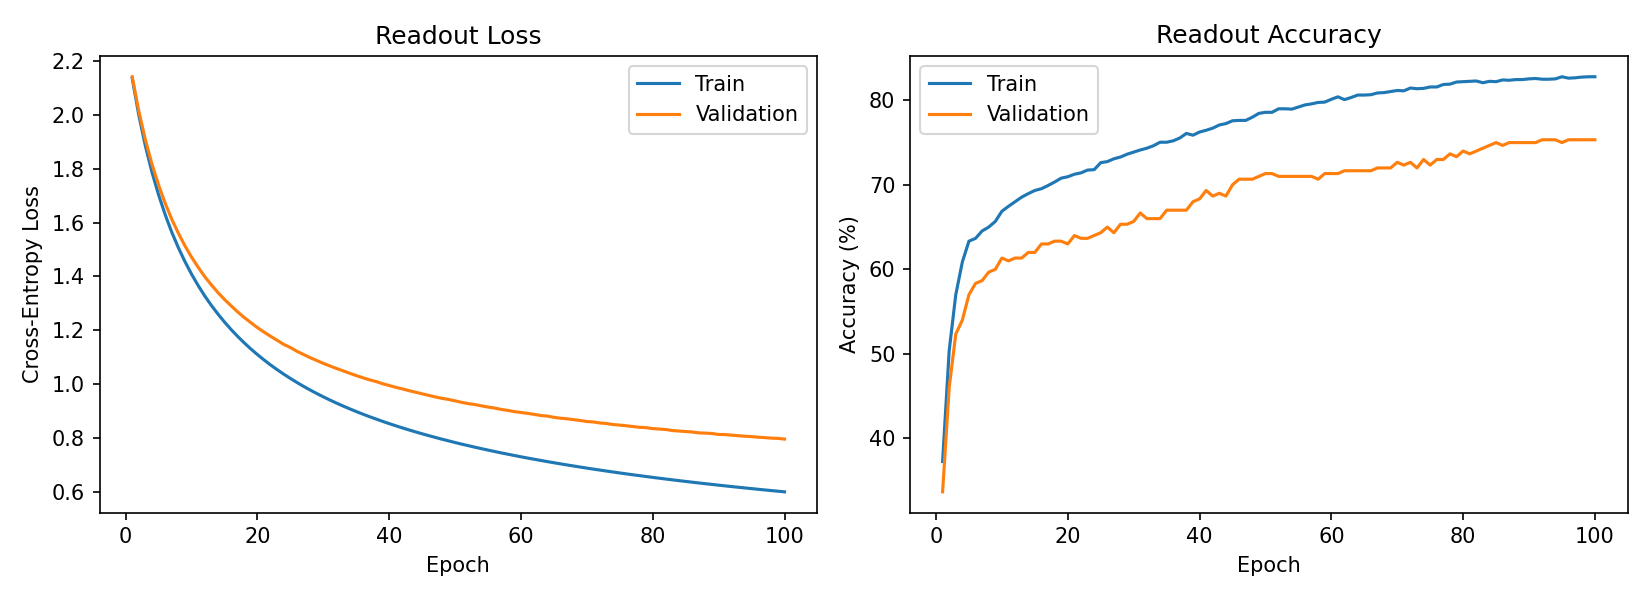
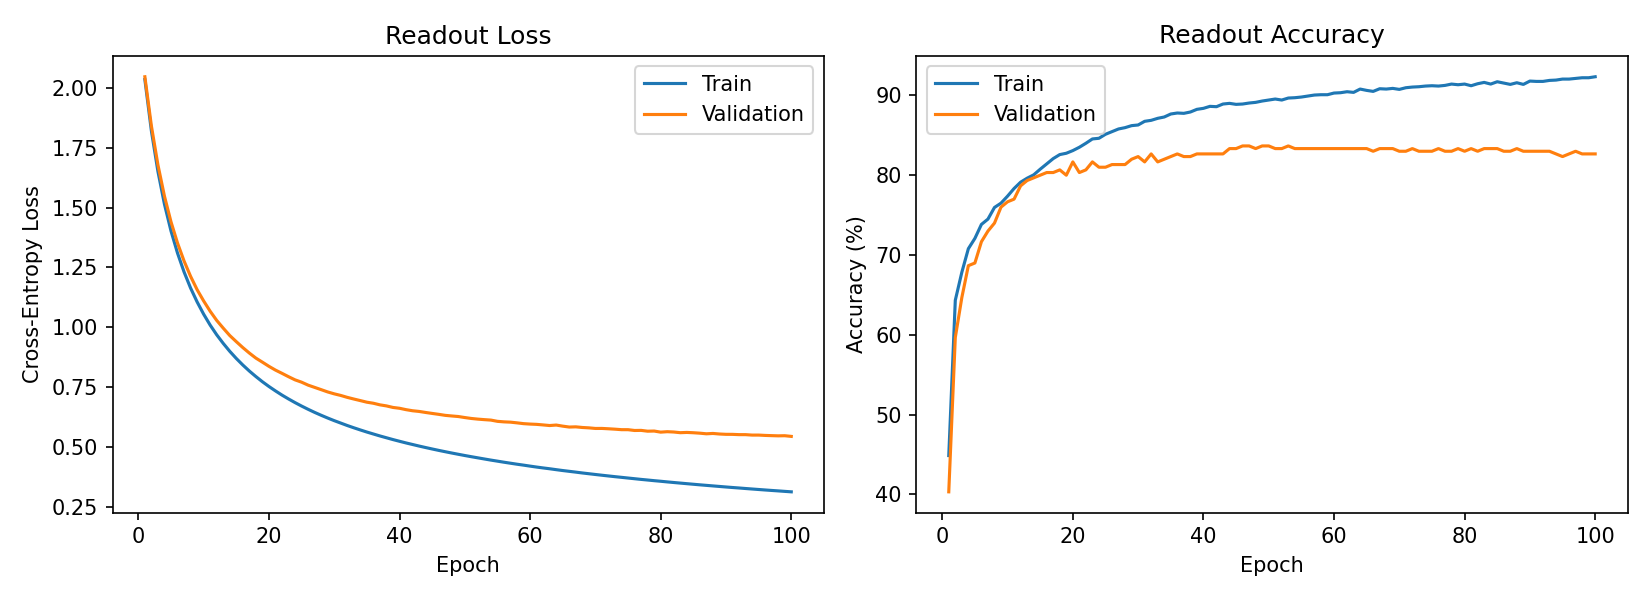
Tune binarization threshold and training epochs (Optimized 0.20, 300)

diff --git a/src/preprocessing.py b/src/preprocessing.py
@@ -29,7 +29,7 @@ HOP_LENGTH = 128 # FFT 시간 구간의 이동 간격(샘플), FFT_SIZE/2로 설
 N_MELS = 32 # Mel 주파수 채널 수, 129개의 주파수 성분을 32개의 Mel 채널로 변환
 N_FRAMES = 32 # 음성마다 사용할 시간 구간 수, wav 파일 길이가 다르므로 32개의 시간 구간으로 보간하여 동일한 크기로 변환
 BITS_PER_PULSE = 4 # 하나의 RRAM 입력 시퀀스를 구성하는 비트 수
-THRESHOLD = 0.5 # 정규화된 Mel 특징을 0과 1로 나누는 기준값
+THRESHOLD = 0.2 # 정규화된 Mel 특징을 0과 1로 나누는 기준값
 # T = FFT_SIZE / SAMPLE_RATE = 0.032초, H = HOP_LENGTH / SAMPLE_RATE = 0.016초, N_FRAMES * H = 0.512초
 
 def normalize_signal(signal): # 음성의 최대 절댓값을 기준으로 진폭을 정규화
